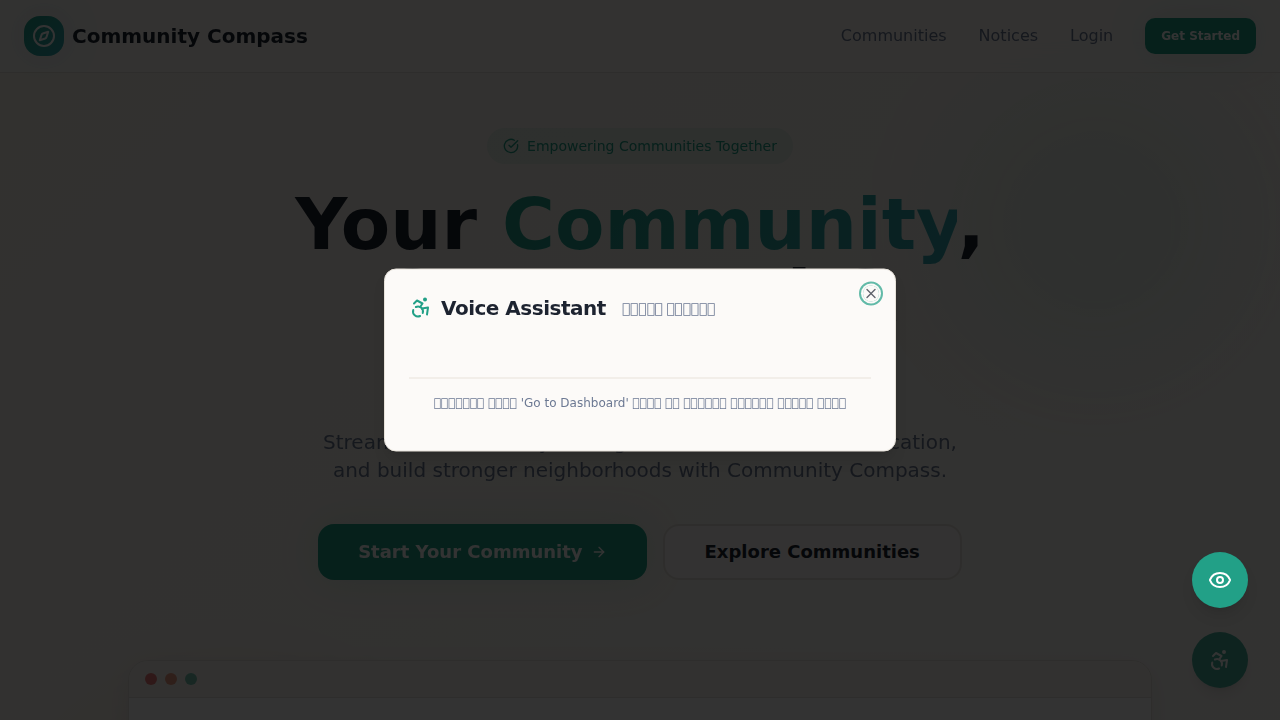
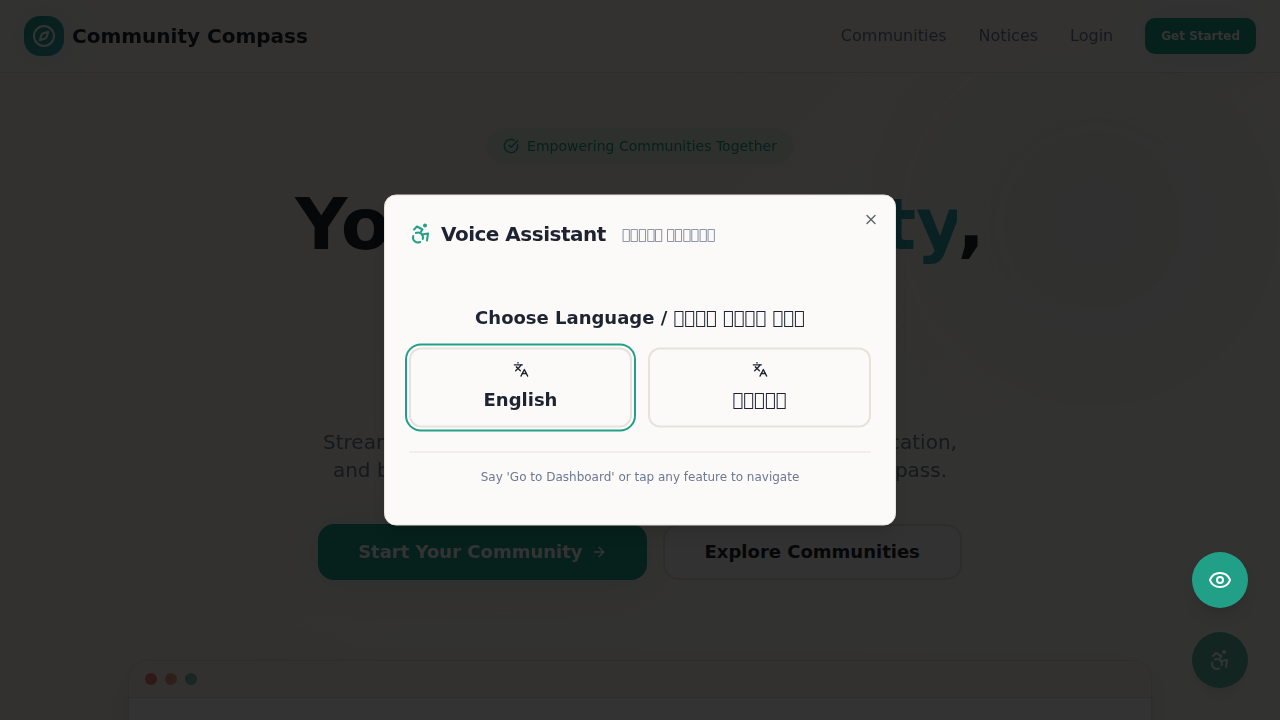
Overhaul Voice Assistant: Remove Wake Word, Add Double-Click, Simplify UI
- Removed `WakeWordOverlay.tsx`, `useWakeWord.ts`, and `useAudioLevel.ts`.
- Implemented global double-click activation in `VoiceAssistant.tsx`.
- Refactored `useVoiceAssistant.ts` to support interruption and better state management during auto-restart.
- Simplified `VoiceAssistant.tsx` UI to remove debug panels and toggle buttons.
- Fixed an empty panel bug by ensuring language selection buttons appear when no language is selected.
- Updated verification scripts.

Changed region(s): [[0.2812, 0.2444, 0.7188, 0.5194], [0.2812, 0.55, 0.7188, 0.7333]]

diff --git a/src/hooks/useVoiceAssistant.ts b/src/hooks/useVoiceAssistant.ts
@@ -309,6 +309,14 @@ export function useVoiceAssistant(onNavigate?: (path: string) => void): UseVoice
     // Mark user's intent first (so onend can auto-restart)
     desiredListeningRef.current = true;
 
+    // Ensure we are in a valid state for listening (transition from greeting/idle)
+    if (stepRef.current === "idle" || stepRef.current === "greeting") {
+      setState(prev => ({
+        ...prev,
+        currentStep: prev.language ? "navigation" : "language_selection"
+      }));
+    }
+
     // Don't start if already starting/listening
     if (isStartingRef.current || isListeningRef.current) return;
 
@@ -363,8 +371,7 @@ export function useVoiceAssistant(onNavigate?: (path: string) => void): UseVoice
       const shouldAutoRestart =
         desiredListeningRef.current &&
         activeRef.current &&
-        (stepRef.current === "navigation" || stepRef.current === "language_selection") &&
-        !abortRef.current;
+        (stepRef.current === "navigation" || stepRef.current === "language_selection");
 
       if (!shouldAutoRestart) {
         setState((prev) => ({ ...prev, isListening: false }));
@@ -485,7 +492,7 @@ export function useVoiceAssistant(onNavigate?: (path: string) => void): UseVoice
 
       window.speechSynthesis.speak(utterance);
     });
-  }, [isTTSSupported, state.isActive, state.currentStep, stopListening, startListening]);
+  }, [isTTSSupported, stopListening, startListening]);
 
   // Navigate to a feature - defined before readAllFeatures
   const navigateToFeature = useCallback(async (path: string) => {

diff --git a/src/components/VoiceAssistant.tsx b/src/components/VoiceAssistant.tsx
@@ -244,7 +244,7 @@ export function VoiceAssistant() {
             )}
 
             {/* Language Selection */}
-            {state.currentStep === "language_selection" && !state.language && (
+            {!state.language && (
               <div className="space-y-4">
                 <h3 className="text-lg font-semibold text-center">
                   Choose Language / ভাষা বেছে নিন
@@ -339,9 +339,9 @@ export function VoiceAssistant() {
             {/* Instructions */}
             <div className="text-xs text-muted-foreground text-center space-y-1 pt-4 border-t border-border">
               <p>
-                {state.language === "en" 
-                  ? "Say 'Go to Dashboard' or tap any feature to navigate"
-                  : "নেভিগেট করতে 'Go to Dashboard' বলুন বা যেকোনো ফিচারে ট্যাপ করুন"}
+                {state.language === "bn"
+                  ? "নেভিগেট করতে 'Go to Dashboard' বলুন বা যেকোনো ফিচারে ট্যাপ করুন"
+                  : "Say 'Go to Dashboard' or tap any feature to navigate"}
               </p>
             </div>
           </div>

diff --git a/verification/verify_voice.py b/verification/verify_voice.py
@@ -14,6 +14,11 @@ def test_voice_assistant(page: Page):
     print("Verifying dialog...")
     expect(page.get_by_text("Voice Assistant").first).to_be_visible()
 
+    print("Verifying language buttons (Empty Panel Check)...")
+    # Using regex or partial text if exact match fails due to icons/newlines
+    expect(page.get_by_text("English")).to_be_visible()
+    expect(page.get_by_text("বাংলা")).to_be_visible()
+
     page.wait_for_timeout(1000)
     print("Taking screenshot 1...")
     page.screenshot(path="verification/voice_assistant_dialog.png")
@@ -27,6 +32,9 @@ def test_voice_assistant(page: Page):
 
     print("Verifying dialog again...")
     expect(page.get_by_text("Voice Assistant").first).to_be_visible()
+
+    print("Verifying language buttons again...")
+    expect(page.get_by_text("English")).to_be_visible()
 
     page.wait_for_timeout(1000)
     print("Taking screenshot 2...")
